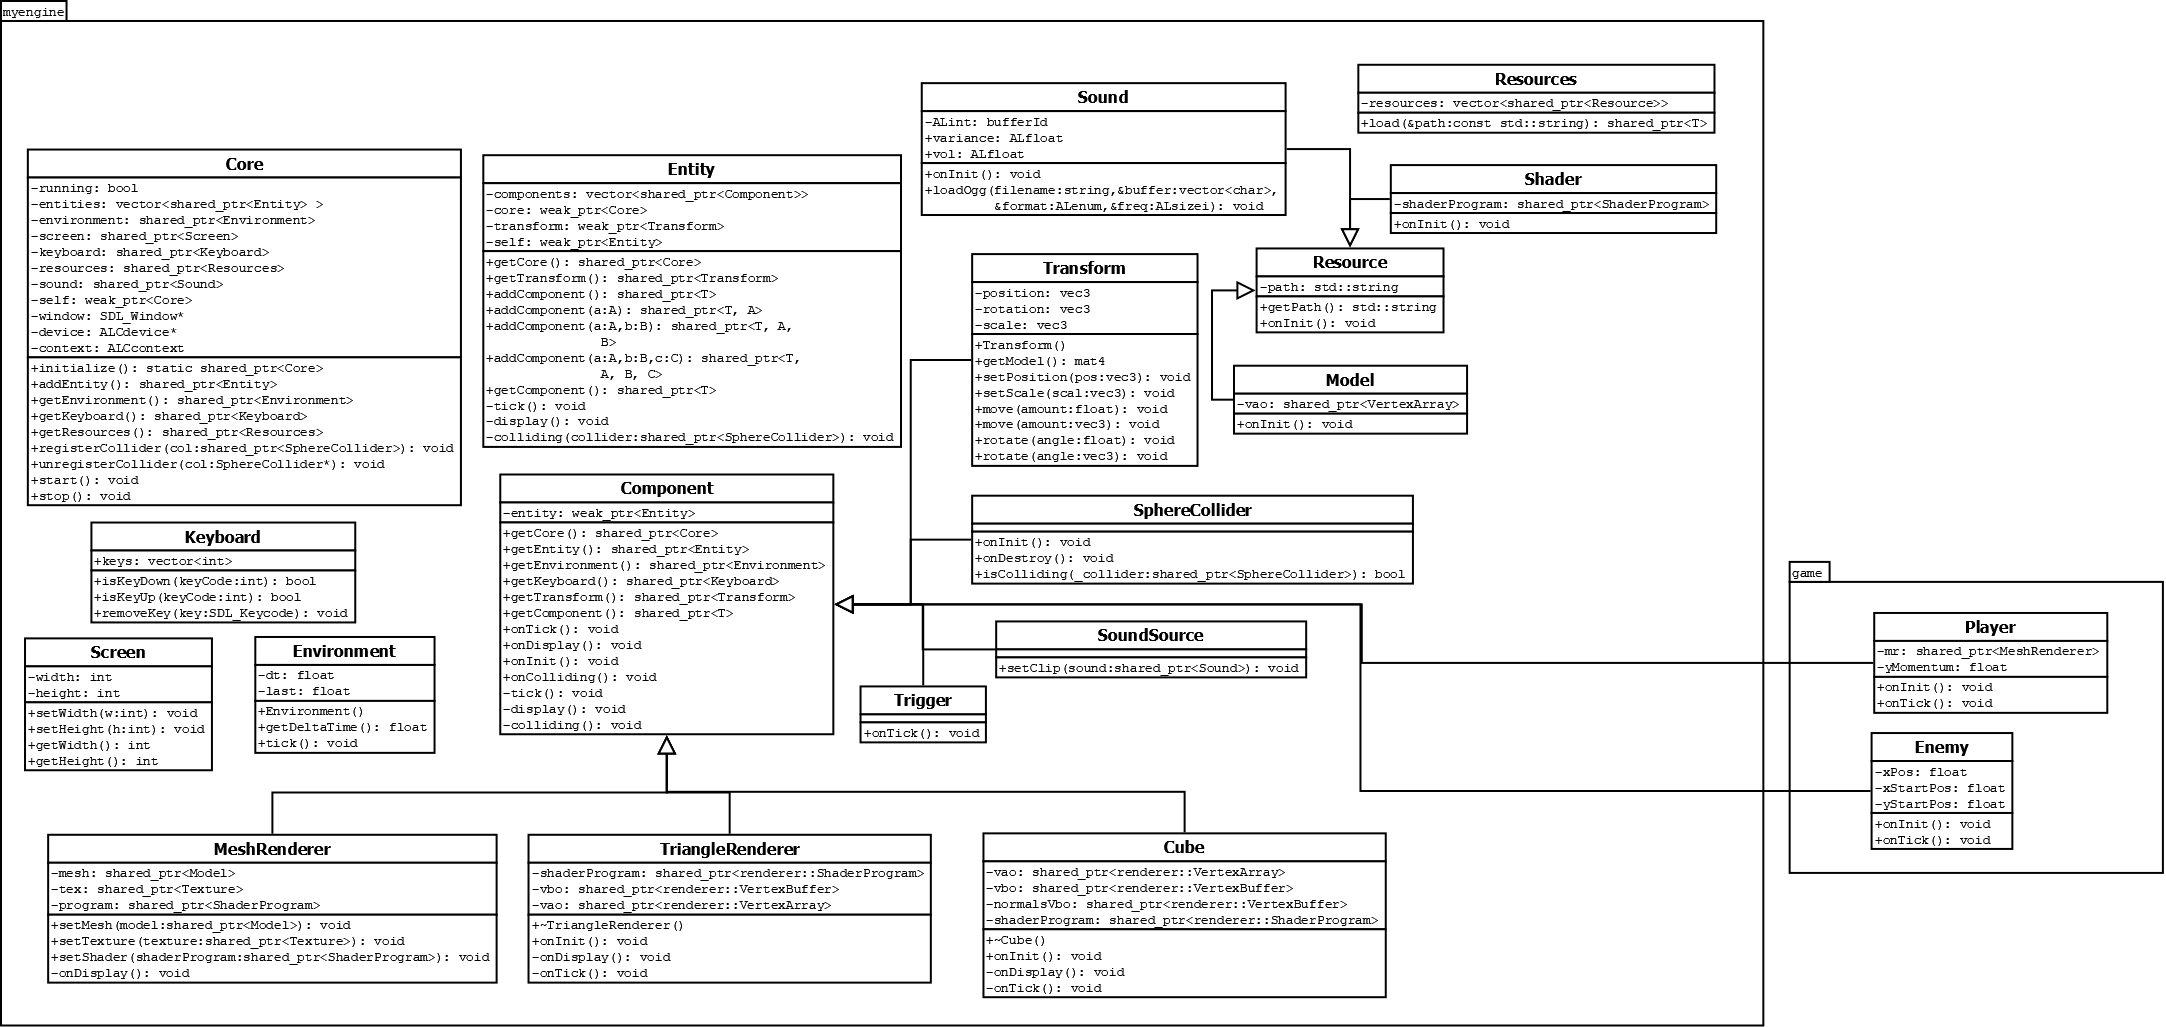
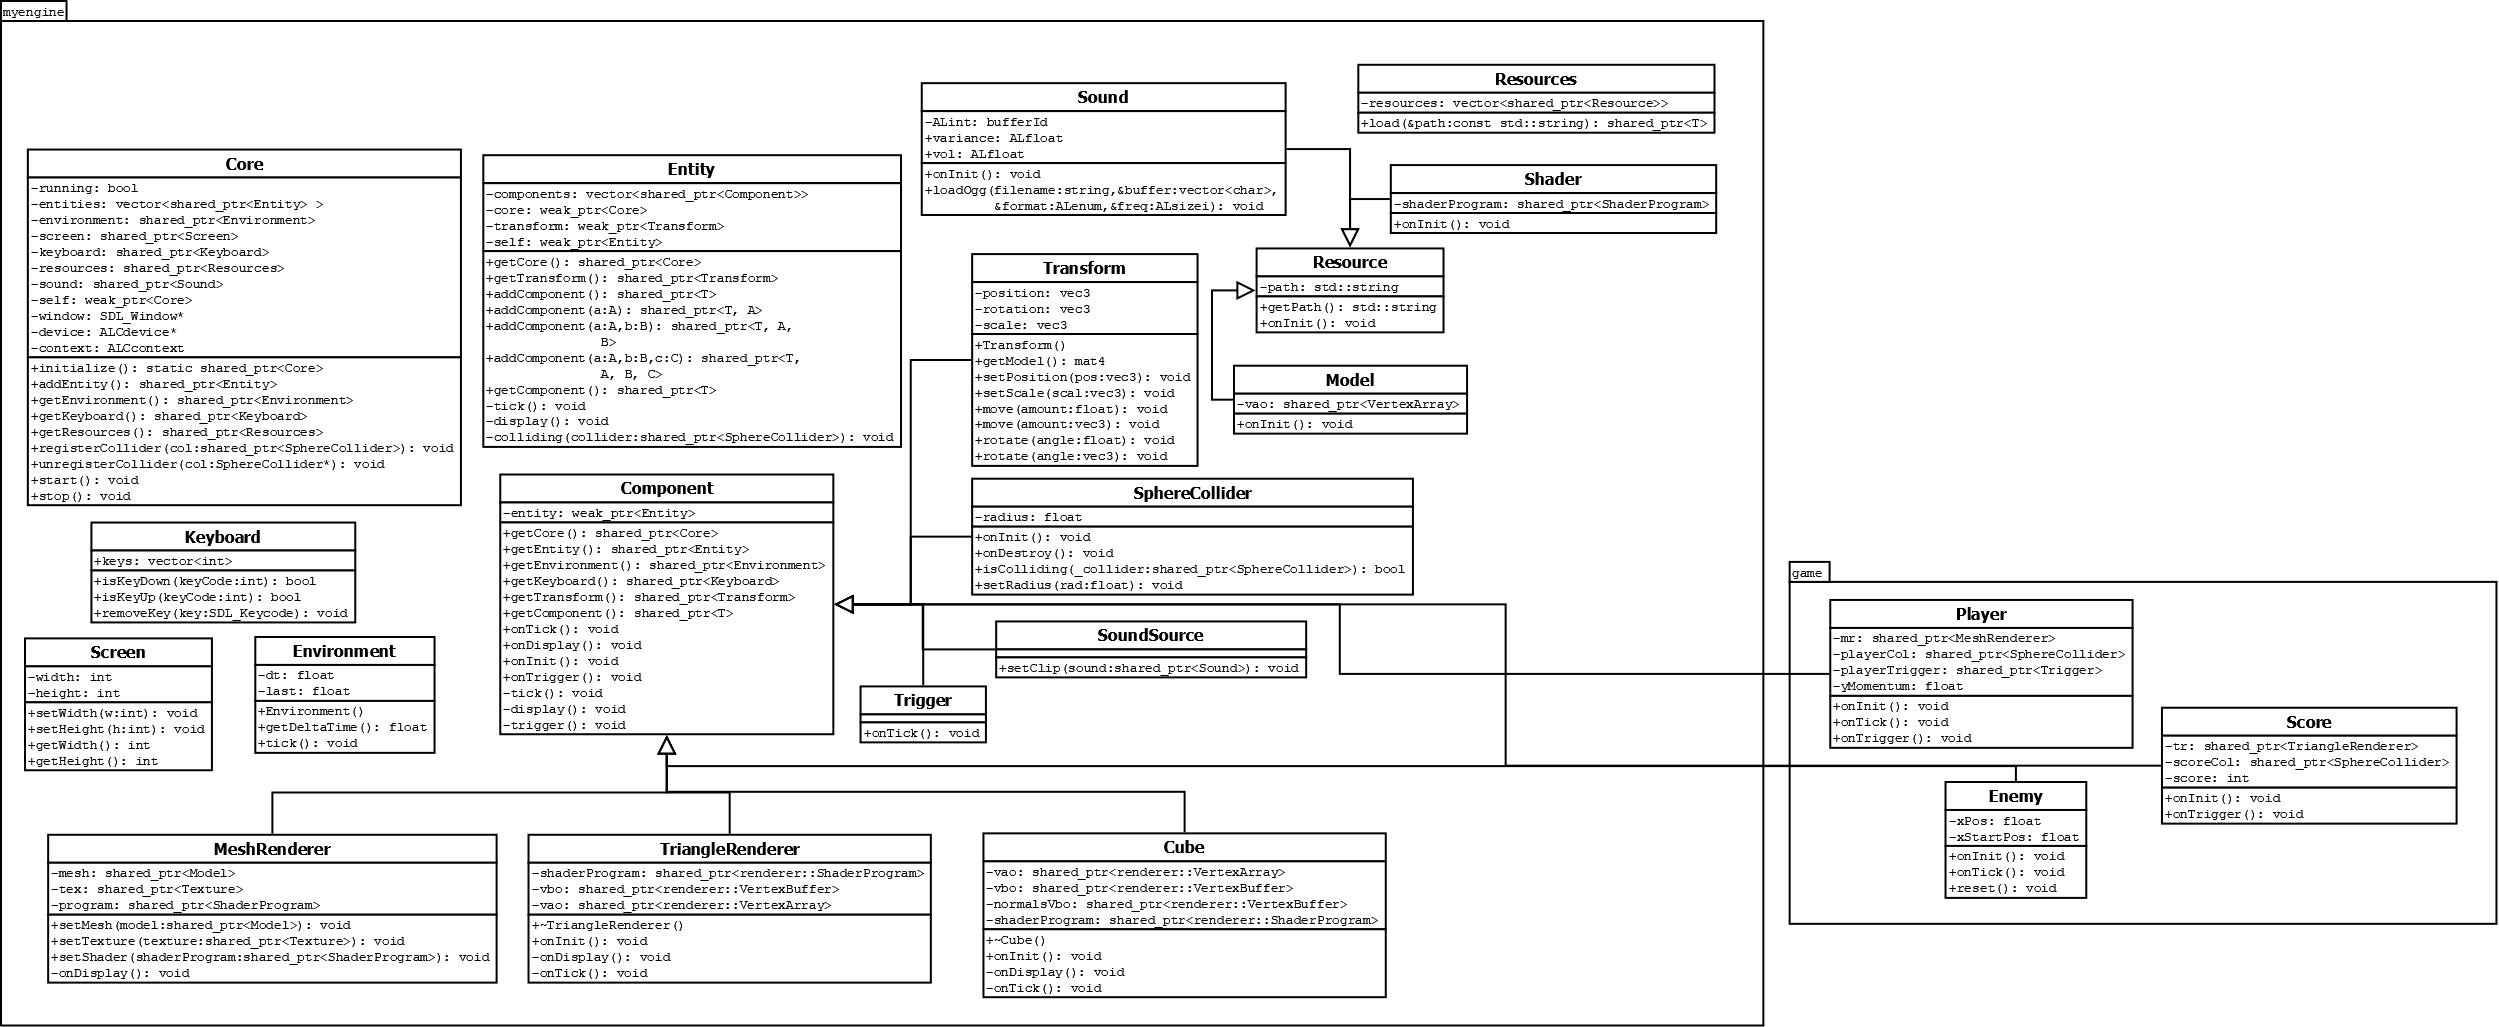
changes made

diff --git a/src/game/main.cpp b/src/game/main.cpp
@@ -3,6 +3,7 @@
 
 #include "Player.h"
 #include "Enemy.h"
+#include "Score.h"
 
 using namespace myengine;
 using namespace renderer;
@@ -34,6 +35,9 @@ int main()
    // Adds new entity along with the enemy component
    std::shared_ptr<Entity> ee = core->addEntity();
    std::shared_ptr<Enemy> ec = ee->addComponent<Enemy>();
+
+   std::shared_ptr<Entity> se = core->addEntity();
+   std::shared_ptr<Score> sc = se->addComponent<Score>();
 
    //std::shared_ptr<Sound> sound = core->getResources()->load<Sound>("../Assets/AudioClips/horn");
    //std::shared_ptr<SoundSource> source = ee->addComponent<SoundSource>();

diff --git a/src/game/Score.cpp b/src/game/Score.cpp
@@ -1,0 +1,18 @@
+#include "Score.h"
+#include <iostream>
+
+void Score::onInit()
+{
+	std::shared_ptr<TriangleRenderer> tr = getEntity()->addComponent<TriangleRenderer>();
+	std::shared_ptr<SphereCollider> scoreCol = getEntity()->addComponent<SphereCollider>();
+	scoreCol->setRadius(0.5f);
+	tr->getTransform()->setPosition(vec3(0, 1, -10));
+	tr->getTransform()->setScale(vec3(0.5f, 0.5f, 0.5f));
+	score = 0;
+}
+
+void Score::onTrigger()
+{
+	score += 1;
+	std::cout << "Score: " << score << std::endl;
+}

diff --git a/src/game/Score.h b/src/game/Score.h
@@ -1,0 +1,14 @@
+#include <myengine/myengine.h>
+
+using namespace myengine;
+
+struct Score : Component
+{
+	public:
+		void onInit();
+		void onTrigger();
+	private:
+		std::shared_ptr<TriangleRenderer> tr;
+		std::shared_ptr<SphereCollider> scoreCol;
+		int score;
+};

diff --git a/src/game/Player.h b/src/game/Player.h
@@ -8,7 +8,6 @@ struct Player : Component
 	public:
 		void onInit();
 		void onTick();
-		void onTrigger();
 	private:
 		std::shared_ptr<MeshRenderer> mr;
 		std::shared_ptr<SphereCollider> playerCol;

diff --git a/src/game/Enemy.cpp b/src/game/Enemy.cpp
@@ -29,6 +29,11 @@ void Enemy::onTick()
 	}
 }
 
+void Enemy::onTrigger()
+{
+	std::cout << "collider" << std::endl;
+}
+
 void Enemy::reset()
 {
 	// Resets enemies position and xPos

diff --git a/src/game/Player.cpp b/src/game/Player.cpp
@@ -38,8 +38,3 @@ void Player::onTick()
 		getTransform()->setPosition(vec3(0, 0, -10));
 	}
 }
-
-void Player::onTrigger()
-{
-	std::cout << "collider" << std::endl;
-}

diff --git a/src/game/Enemy.h b/src/game/Enemy.h
@@ -7,6 +7,7 @@ struct Enemy : Component
 	public:
 		void onInit();
 		void onTick();
+		void onTrigger();
 		void reset();
 	private:
 		float xPos;
